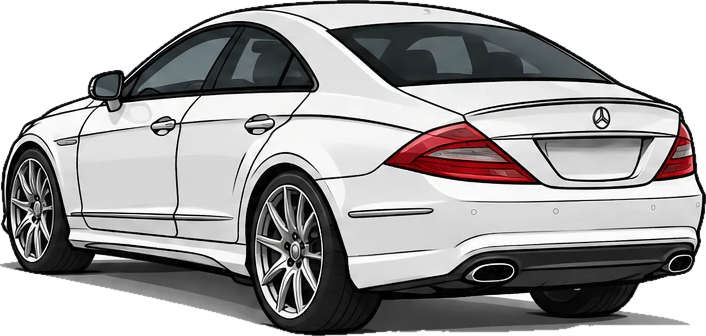
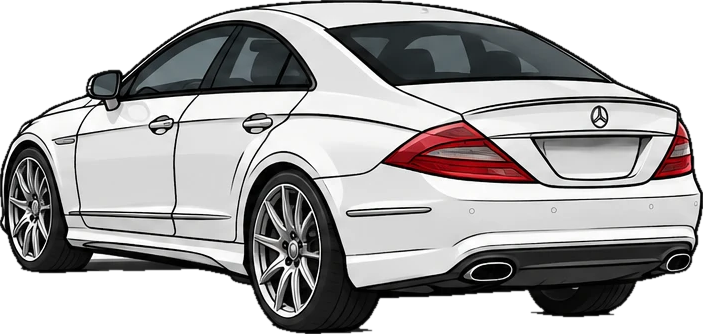
CLS вырезан заново без тени (cut_sheet --shadow-l, дочистка под кузовом), чёрный/вишнёвый перекрашены без зерна; cine: отражение под машиной, а не поверх, блик мягче
Claude-Session: https://claude.ai/code/session_011h7oDPmmegoivb4yRZ71Zj

diff --git a/reels/perekupy/toon/cine.css b/reels/perekupy/toon/cine.css
@@ -15,9 +15,9 @@
 .cf .car { display: block; }
 .cf .carw { position: absolute; }
 .cf .carw img { position: absolute; left: 0; top: 0; width: 100%; }
-.cf .carw .sheen { position: absolute; inset: 0; -webkit-mask-size: 100% 100%; mask-size: 100% 100%; mix-blend-mode: screen; opacity: .9;
-  background: linear-gradient(105deg, transparent 0 38%, rgba(255,255,255,.55) 44%, rgba(255,255,255,.1) 50%, transparent 56%); background-size: 300% 100%; }
-.cf .refl { position: absolute; left: 0; transform: scaleY(-1); transform-origin: 50% 0; opacity: .2; filter: blur(4px) brightness(.85);
+.cf .carw .sheen { position: absolute; inset: 0; -webkit-mask-size: 100% 100%; mask-size: 100% 100%; mix-blend-mode: screen; opacity: .6;
+  background: linear-gradient(105deg, transparent 0 44%, rgba(255,255,255,.45) 47.5%, rgba(255,255,255,.08) 50.5%, transparent 53%); background-size: 300% 100%; }
+.cf .refl { position: absolute; left: 0; transform: scaleY(-1); transform-origin: 50% 50%; opacity: .2; filter: blur(4px) brightness(.85);
   -webkit-mask-image: linear-gradient(to top, rgba(0,0,0,.85), transparent 45%); mask-image: linear-gradient(to top, rgba(0,0,0,.85), transparent 45%); }
 /* цветокоррекция: mul — умножение (общий тон), tone — мягкий свет сверху/снизу, vig — виньетка */
 .cf .mul, .cf .tone, .cf .vig { position: absolute; inset: 0; pointer-events: none; }

diff --git a/reels/perekupy/toon/cine.js b/reels/perekupy/toon/cine.js
@@ -10,7 +10,7 @@
     "vaz2110/vaz2110_side.png": [749, 252], "camry/camry.png": [1317, 627], "corolla/corolla.png": [1358, 462], "priora/priora_white.png": [1263, 410],
     "priora/priora_black.png": [1263, 410], "vaz2114/vaz2114_white.png": [1006, 332], "markii/markii.png": [983, 467], "niva/niva_34.png": [669, 361],
     "evo/evo_34.png": [796, 373], "vaz2115/vaz2115.png": [1305, 375], "vaz2105/vaz2105_34.png": [775, 352], "x6/x6_34.png": [745, 356], "prado/prado_34.png": [732, 366],
-    "bmw/bmw_34.png": [696, 280], "cls/cls_34.png": [788, 340], "vaz2114t/vaz2114t_34.png": [766, 315], "gelik/gelik_34.png": [456, 314] };
+    "bmw/bmw_34.png": [696, 280], "cls/cls_34.png": [787, 338], "vaz2114t/vaz2114t_34.png": [766, 315], "gelik/gelik_34.png": [456, 314] };
   C.IMG = "../../kit/img/";
   // детерминированный «рандом» для дождя/пылинок
   const rnd = seed => () => (seed = (seed * 16807) % 2147483647) / 2147483647;

diff --git a/reels/perekupy/toon/series40/props49.js b/reels/perekupy/toon/series40/props49.js
@@ -2,7 +2,7 @@
 const NOTARY = { coat: "#4a3a5a", jacket: "#4a3a5a", pants: "#2b2f37", hair: "#d9a03a", glasses: true, scarf: "#e8e4d8", look: "flat" };
 const VITALIK = { jacket: "#2f6db5", pants: "#2f6db5", cap: "#151515", chain: true, hair: "#1d1d1f", look: "grin" };
 const CLSW = "cls/cls_34.png", CLSB = "cls/cls_34_black.png";
-CINE.SIZES[CLSW] = [788, 340]; CINE.SIZES[CLSB] = [788, 340];
+CINE.SIZES[CLSW] = [787, 338]; CINE.SIZES[CLSB] = [787, 338];
 const HUD49 = (cap, d, lis) => ({ tag: "партнёры", cap, d, lis });
 // предмет в правой руке героя (по повороту руки, как зонт в ep47): html — svg 100×100 с центром-хваткой в (50, 50)
 const INHAND = (x, foot, h, arm, w, html, z = 8, rot = 0) => {

diff --git a/reels/perekupy/kit/img/_tools/cut_sheet.py b/reels/perekupy/kit/img/_tools/cut_sheet.py
@@ -2,6 +2,7 @@
 # Лист владельца 3×2 на белом фоне (спереди/сзади, сбоку ×2, 3/4 ×2). Ракурсы ищем сами (пятна не-белого), фон отделяем по контуру:
 # «стенка» — тёмные и цветные пиксели (контур, шины, кузов), чуть утолщённые, чтобы закрыть щели в контуре; всё, до чего от края кадра
 # можно дойти, не пересекая стенку, — фон (и белый, и серая тень). Так белая машина (Гранта) не «вытекает» вместе с белым фоном.
+# --shadow-l=N: тень под машиной — нейтральные пиксели светлее N (по умолчанию 60; у CLS тень тёмная — 46).
 # --white-holes: замкнутые чисто-белые просветы (между антикрылом и багажником у Эво) — тоже фон.
 import sys
 import numpy as np
@@ -51,7 +52,8 @@ for nm, sl in zip(names, boxes):
     bg = ndimage.binary_dilation(bg, iterations=2) & ~((L < 120) | (Sa > 30))     # вернуть фону полосу, съеденную утолщением стенки
     # тень под машиной: серо-нейтральная полоса снизу, достижимая от фона
     low = np.arange(a.shape[0])[:, None] > .72 * a.shape[0]
-    sh = low & (Sa < 14) & (a.min(-1) > 55) & ~(L < 60)
+    SHL = next((int(x.split("=")[1]) for x in sys.argv if x.startswith("--shadow-l=")), 60)   # тень темнее (CLS: ядро ~57) — порог ниже, шины ~20–40
+    sh = low & (Sa < 14) & (a.min(-1) > SHL - 5) & ~(L < SHL)
     lab2, _ = ndimage.label(sh | bg)
     bg = np.isin(lab2, list(set(lab2[bg].ravel()) - {0}))
     if "--white-holes" in sys.argv:

diff --git a/reels/perekupy/kit/img/cls/recolor2.py b/reels/perekupy/kit/img/cls/recolor2.py
@@ -1,0 +1,22 @@
+# чёрный CLS из белой вырезки: кузов = светлые бесцветные пиксели (без дисков, фар, стёкол), маска сглажена — без зерна по краям линий
+import numpy as np
+from PIL import Image
+from scipy import ndimage
+im = np.asarray(Image.open("cls_34.png").convert("RGBA")).astype(float)
+rgb, a = im[..., :3], im[..., 3]; mx, mn = rgb.max(2), rgb.min(2)
+h, w = a.shape; yy, xx = np.mgrid[:h, :w]
+wheels = np.zeros((h, w), bool)
+for cx, cy, r in ((415, 268, 74), (712, 250, 62)): wheels |= (xx - cx) ** 2 + (yy - cy) ** 2 < r ** 2
+light = (mn > 120) & (mx - mn < 30) & (a > 0)
+lab, n = ndimage.label(light); idx = np.arange(1, n + 1)
+inw = ndimage.mean(wheels.astype(float), lab, idx); big = ndimage.sum(light, lab, idx)
+body = np.isin(lab, idx[(inw < .5) & (big > 60)])
+body = ndimage.binary_closing(body, iterations=2) & (mn > 80) & (a > 0) & ~(wheels & ~np.isin(lab, idx[(inw < .5) & (big > 60)]))
+body &= ~((xx > 62) & (xx < 166) & (yy > 220) & (yy < 256))      # номер не красим
+soft = ndimage.gaussian_filter(body.astype(float), .7)[..., None]
+L = ndimage.gaussian_filter(rgb.mean(2), .8)[..., None] / 255
+for name, base, k in (("black", [18, 19, 23], 1.0), ("cherry", [120, 14, 34], 1.0)):
+    tint = np.array(base) * (.75 + .35 * L) + ((L * 255 - 200).clip(0) * k)       # светотень и блики сохраняются
+    out = rgb * (1 - soft) + tint * soft
+    Image.fromarray(np.dstack([out.clip(0, 255), a]).astype(np.uint8)).save(f"cls_34_{name}.png")
+bg = Image.new("RGBA", (w, h), (255, 0, 255, 255)); bg.alpha_composite(Image.open("cls_34_black.png")); bg.convert("RGB").save("bprev.jpg")

diff --git a/reels/perekupy/kit/img/cls/fix34.py b/reels/perekupy/kit/img/cls/fix34.py
@@ -1,0 +1,16 @@
+# дочистка тени под кузовом CLS 3/4: ниже линии низа кузова оставляем только колёса (эллипсы шин)
+import sys, numpy as np
+from PIL import Image
+from scipy import ndimage
+f, wheels = sys.argv[1], eval(sys.argv[2]); line = eval(sys.argv[3])     # wheels: [(cx, cy, rx, ry)], line: [(x, y)] — низ кузова
+im = np.asarray(Image.open(f).convert("RGBA")).copy(); h, w = im.shape[:2]
+yy, xx = np.mgrid[:h, :w]
+yl = np.interp(xx, [p[0] for p in line], [p[1] for p in line])
+inw = np.zeros((h, w), bool)
+for cx, cy, rx, ry in wheels: inw |= ((xx - cx) / rx) ** 2 + ((yy - cy) / ry) ** 2 < 1
+kill = (yy > yl) & ~inw
+a = im[..., 3].astype(float); a[kill] = 0
+a = ndimage.gaussian_filter((a > 127).astype(float), .6) * 255
+im[..., 3] = a.clip(0, 255).astype(np.uint8)
+Image.fromarray(im).save(f.replace(".png", "_fix.png"))
+bg = Image.new("RGBA", (w, h), (255, 0, 255, 255)); bg.alpha_composite(Image.fromarray(im)); bg.convert("RGB").save("fixprev.jpg")

diff --git a/reels/perekupy/kit/img/cls/cut.py b/reels/perekupy/kit/img/cls/cut.py
@@ -1,3 +1,4 @@
+# (12.11) вырезка заново: python ../_tools/cut_sheet.py . cls --shadow-l=46 → python fix34.py cls_34.png "[(415,268,70,72),(712,250,56,70)]" "[(0,290),(340,300),(470,290),(640,262),(787,240)]" (дочистка тени под кузовом) → python recolor2.py (чёрный и вишнёвый)
 # python cut.py → prado_side.png (сбоку, мордой вправо) и prado_34.png (3/4 спереди): ВАЗ-2114 владельца (корч: каркас, растяжка, спойлер) без белого фона и без тени.
 # Тень под машиной того же серого, что и кузов, — убираем её полосой: ниже начала тени оставляем только тёмные шины; затем
 # белое, отрезанное от краёв (просвет между порогом и тенью), тоже фон; кайма по контуру — срезаем на 1 px.
